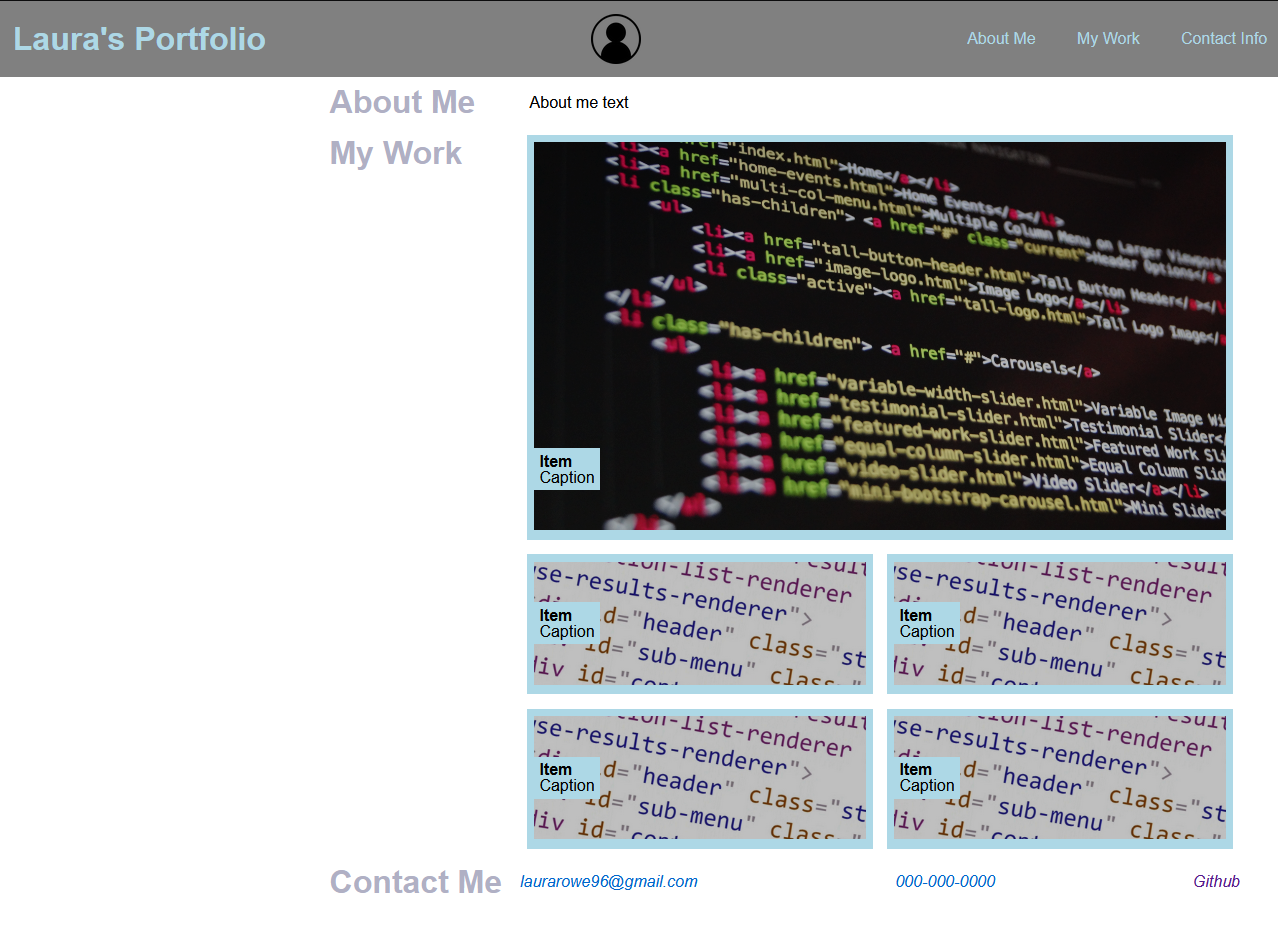
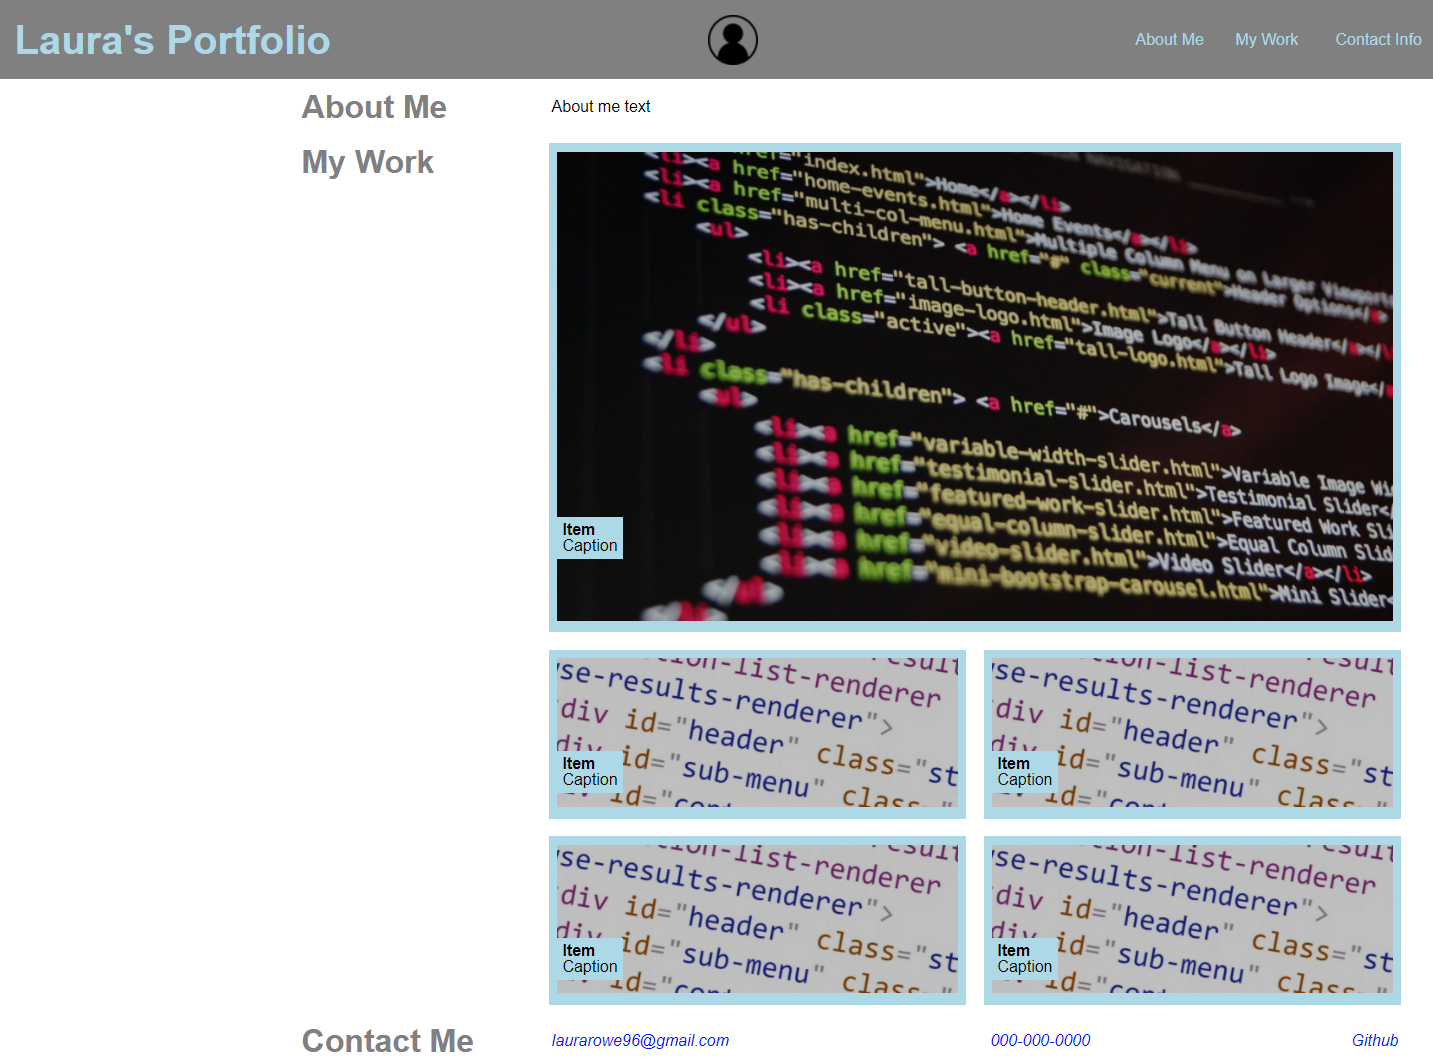
added transitions and updated screenshot

diff --git a/assets/css/style.css b/assets/css/style.css
@@ -20,6 +20,7 @@ header {
 
 h1 {
     font-size: 200%;
+    transition: font-size 1s;
 }
 
 h2 {
@@ -27,6 +28,8 @@ h2 {
     color: grey;
     padding: 1%; 
     flex-basis: 150px;  
+    transition: flex-basis 1s, font-size 1s;
+
 }
 
 header img {
@@ -46,6 +49,7 @@ nav a {
 main {
     display: flex;
     flex-direction: column;
+    transition: margin-left 1s;
 }
 
 section{
@@ -100,6 +104,7 @@ section{
     padding: 1%;
     margin: 1%;
     background-color: lightblue;
+    transition: flex-basis 500ms linear;
 }
 
 .card-body img {
@@ -145,7 +150,7 @@ img:hover {
 /* mobile  */
 @media screen and (min-width: 768px) {
     main {
-        margin-left: 15%;
+        margin-left: 15%;;
     }
     h2 {
         font-size: 200%;
@@ -155,7 +160,7 @@ img:hover {
 
 @media screen and (min-width: 992px) {
     main {
-        margin-left: 25%;
+        margin-left: 20%;
     }
     .card-body {
         flex-basis: 48%;
